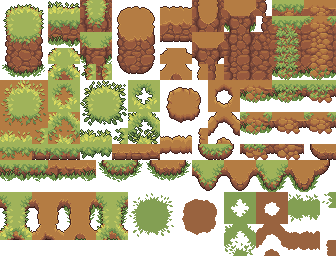
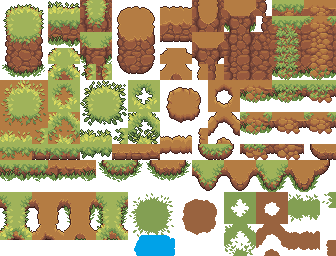
lot of trashes

Changed region(s): [[0.3869, 0.9062, 0.5357, 1.0]]

diff --git a/src/app/scenes/gamescene/gamescene.ts b/src/app/scenes/gamescene/gamescene.ts
@@ -47,7 +47,7 @@ export class GameScene extends Phaser.Scene {
 
       this.load.spritesheet('player', 'assets/sprites/player/character/body/main.png', { frameWidth: 64, frameHeight: 64 });
       this.load.spritesheet('drop_coin', 'assets/sprites/resources/coin.png', { frameWidth: 16, frameHeight: 16 });
-      this.load.spritesheet('portal', 'assets/sprites/resources/Dimensional_Portal.png', { frameWidth: 32, frameHeight: 32 });
+      this.load.spritesheet('portal', 'assets/sprites/resources/portal.png', { frameWidth: 64, frameHeight: 64 });
       this.load.spritesheet('icons1', 'assets/icon/icons/icons1.png', { frameWidth: 32, frameHeight: 32 });
 
       for (const cfg of Object.values(EQUIP_LAYER_REGISTRY)) {
@@ -64,6 +64,9 @@ export class GameScene extends Phaser.Scene {
 
       const mapCfg = this.reg.world.getCurrentMap();
       this.load.image(mapCfg.tilesetKey, mapCfg.tilesetImage);
+      for (const ts of mapCfg.extraTilesets ?? []) {
+        if (!this.textures.exists(ts.key)) this.load.image(ts.key, ts.image);
+      }
       this.load.tilemapTiledJSON(mapCfg.tilemapKey, mapCfg.tilemapJson);
 
       // Solo carga texturas para los enemigos del mapa actual + variantes elite/oblivion.
@@ -221,10 +224,17 @@ export class GameScene extends Phaser.Scene {
     initMap() {
       const cfg = this.currentMapConfig;
       this.currentMap = this.make.tilemap({ key: cfg.tilemapKey });
+      const allTilesetNames = [cfg.tilesetName];
       this.currentMap.addTilesetImage(cfg.tilesetName, cfg.tilesetKey);
+      for (const ts of cfg.extraTilesets ?? []) {
+        this.currentMap.addTilesetImage(ts.name, ts.key);
+        allTilesetNames.push(ts.name);
+      }
+      let depth = 0;
       for (let i = 0; i < this.currentMap.layers.length; i++) {
-        const layer = this.currentMap.createLayer(i, cfg.tilesetName, 0, 0);
-        layer.setDepth(i);
+        const layer = this.currentMap.createLayer(i, allTilesetNames, 0, 0);
+        if (!layer) continue; // object layers devuelven null
+        layer.setDepth(depth++);
         layer.scale = 3;
       }
     }
@@ -322,8 +332,8 @@ export class GameScene extends Phaser.Scene {
       if (!this.anims.exists('portal_spin')) {
         this.anims.create({
           key: 'portal_spin',
-          frames: this.anims.generateFrameNumbers('portal', { start: 0, end: 5 }),
-          frameRate: 6,
+          frames: this.anims.generateFrameNumbers('portal', { start: 0, end: 6 }),
+          frameRate: 12,
           repeat: -1,
         });
       }
@@ -375,8 +385,31 @@ export class GameScene extends Phaser.Scene {
     }
 
     createPhysics() {
-      this.gridPhysics  = new GridPhysics(this.player, this.currentMap, this.enemies);
+      this.gridPhysics  = new GridPhysics(this.player, this.currentMap, this.enemies, this.buildCollisionTiles());
       this.gridControls = new GridControls(this.input, this.gridPhysics, this.mobileInput);
+    }
+
+    private buildCollisionTiles(): Set<string> {
+      const blocked = new Set<string>();
+      const tw = this.currentMap.tileWidth;
+      for (const objLayer of this.currentMap.objects) {
+        const hasCollides = objLayer.properties?.some(
+          (p: any) => p.name === 'collides' && p.value === true
+        );
+        if (!hasCollides) continue;
+        for (const obj of objLayer.objects) {
+          const x0 = Math.floor(obj.x / tw);
+          const y0 = Math.floor(obj.y / tw);
+          const x1 = Math.ceil((obj.x + (obj.width ?? tw)) / tw);
+          const y1 = Math.ceil((obj.y + (obj.height ?? tw)) / tw);
+          for (let tx = x0; tx < x1; tx++) {
+            for (let ty = y0; ty < y1; ty++) {
+              blocked.add(`${tx},${ty}`);
+            }
+          }
+        }
+      }
+      return blocked;
     }
 
     createDrops() {

diff --git a/src/app/scenes/gamescene/map-config.ts b/src/app/scenes/gamescene/map-config.ts
@@ -25,6 +25,12 @@ export interface PortalConfig {
   targetMapId: string;
 }
 
+export interface TilesetConfig {
+  key: string;
+  image: string;
+  name: string;
+}
+
 export interface MapConfig {
   id: string;
   name: string;
@@ -33,6 +39,7 @@ export interface MapConfig {
   tilesetKey: string;
   tilesetImage: string;
   tilesetName: string;
+  extraTilesets?: TilesetConfig[];
   spawns: SpawnConfig[];
   portals: PortalConfig[];
   spawnPos?: { x: number; y: number };
@@ -90,6 +97,11 @@ export const MAP_REGISTRY: Record<string, MapConfig> = {
     spawns: [],
     portals: [{ tilePos: { x: 17, y: 17 }, targetMapId: '1-1' }],
     spawnPos: { x: 30, y: 30 },
+    extraTilesets: [
+      { key: 'w1-water-detail', name: 'Water_detilazation', image: 'assets/tilemaps/W1/water_detilazation.png' },
+      { key: 'w1-water-coasts', name: 'Water_coasts',       image: 'assets/tilemaps/W1/Water_coasts.png'       },
+      { key: 'w1-ground-copia', name: 'ground_grasss - copia', image: 'assets/tilemaps/W1/ground_grasss.png' },
+    ],
   },
 
   '1-1': {

diff --git a/src/app/physics/gridphisics.ts b/src/app/physics/gridphisics.ts
@@ -32,7 +32,8 @@ export class GridPhysics extends Phaser.Events.EventEmitter {
   constructor(
     private player: Player,
     private tileMap: Phaser.Tilemaps.Tilemap,
-    private enemies: Enemy[]
+    private enemies: Enemy[],
+    private collisionTiles: Set<string> = new Set(),
   ) {
     super();
     this.layerCount = tileMap.layers.length;
@@ -116,6 +117,7 @@ export class GridPhysics extends Phaser.Events.EventEmitter {
   private isTileBlockedXY(px: number, py: number): boolean {
     const tileX = Math.floor(px / GameScene.TILE_SIZE);
     const tileY = Math.floor(py / GameScene.TILE_SIZE);
+    if (this.collisionTiles.has(`${tileX},${tileY}`)) return true;
     let hasAny = false;
     for (let i = 0; i < this.layerCount; i++) {
       const tile = this.tileMap.getTileAt(tileX, tileY, false, i);